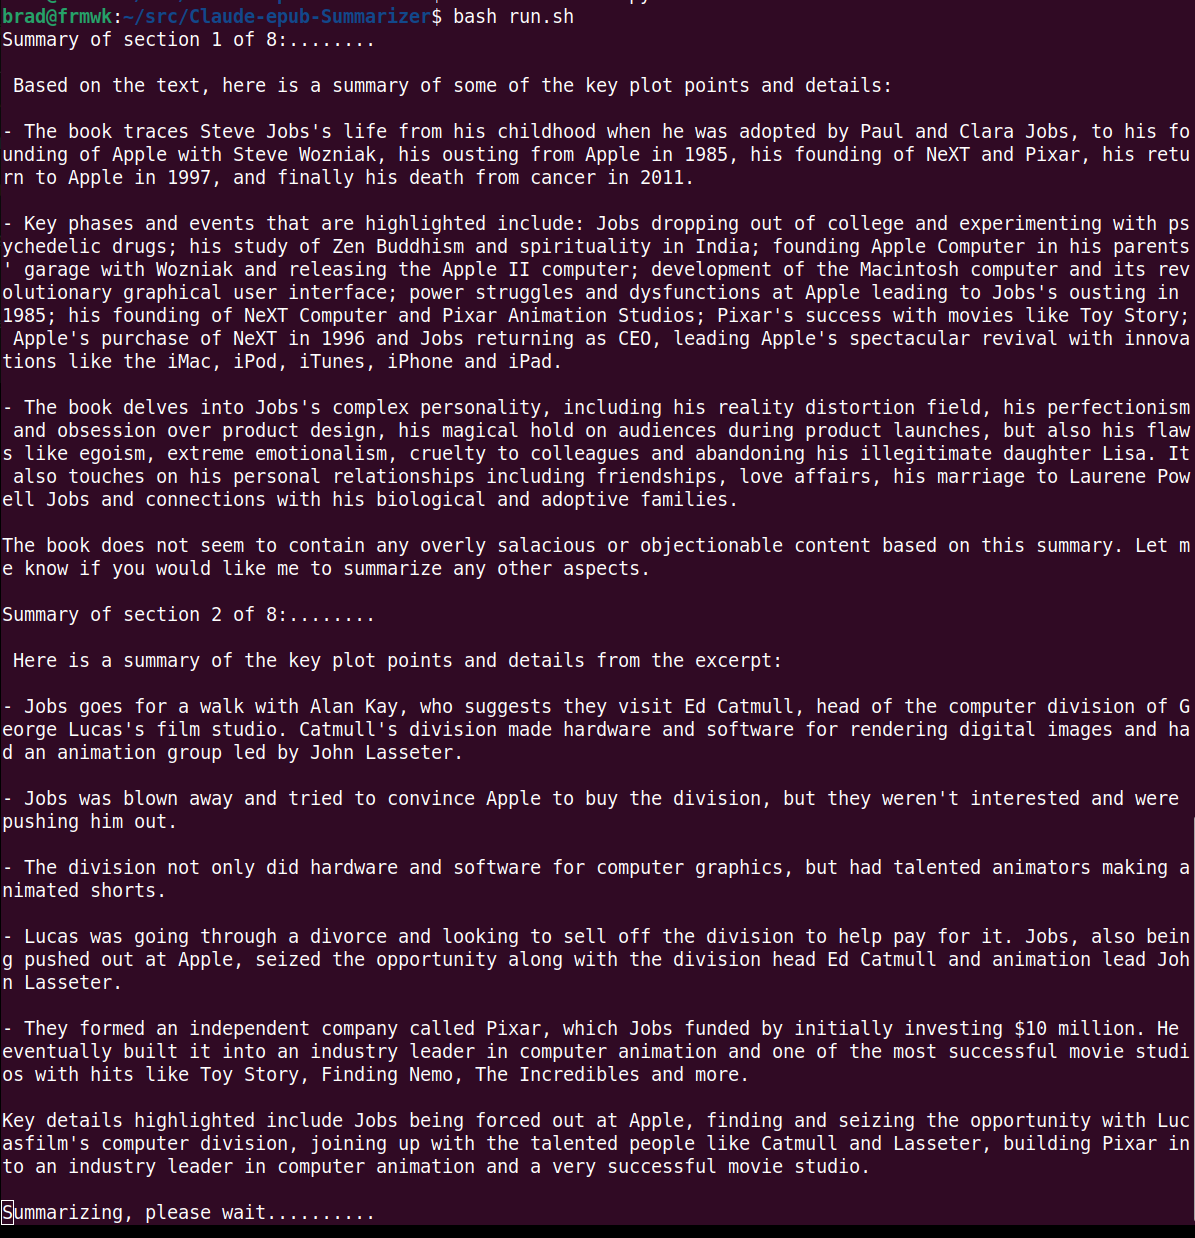
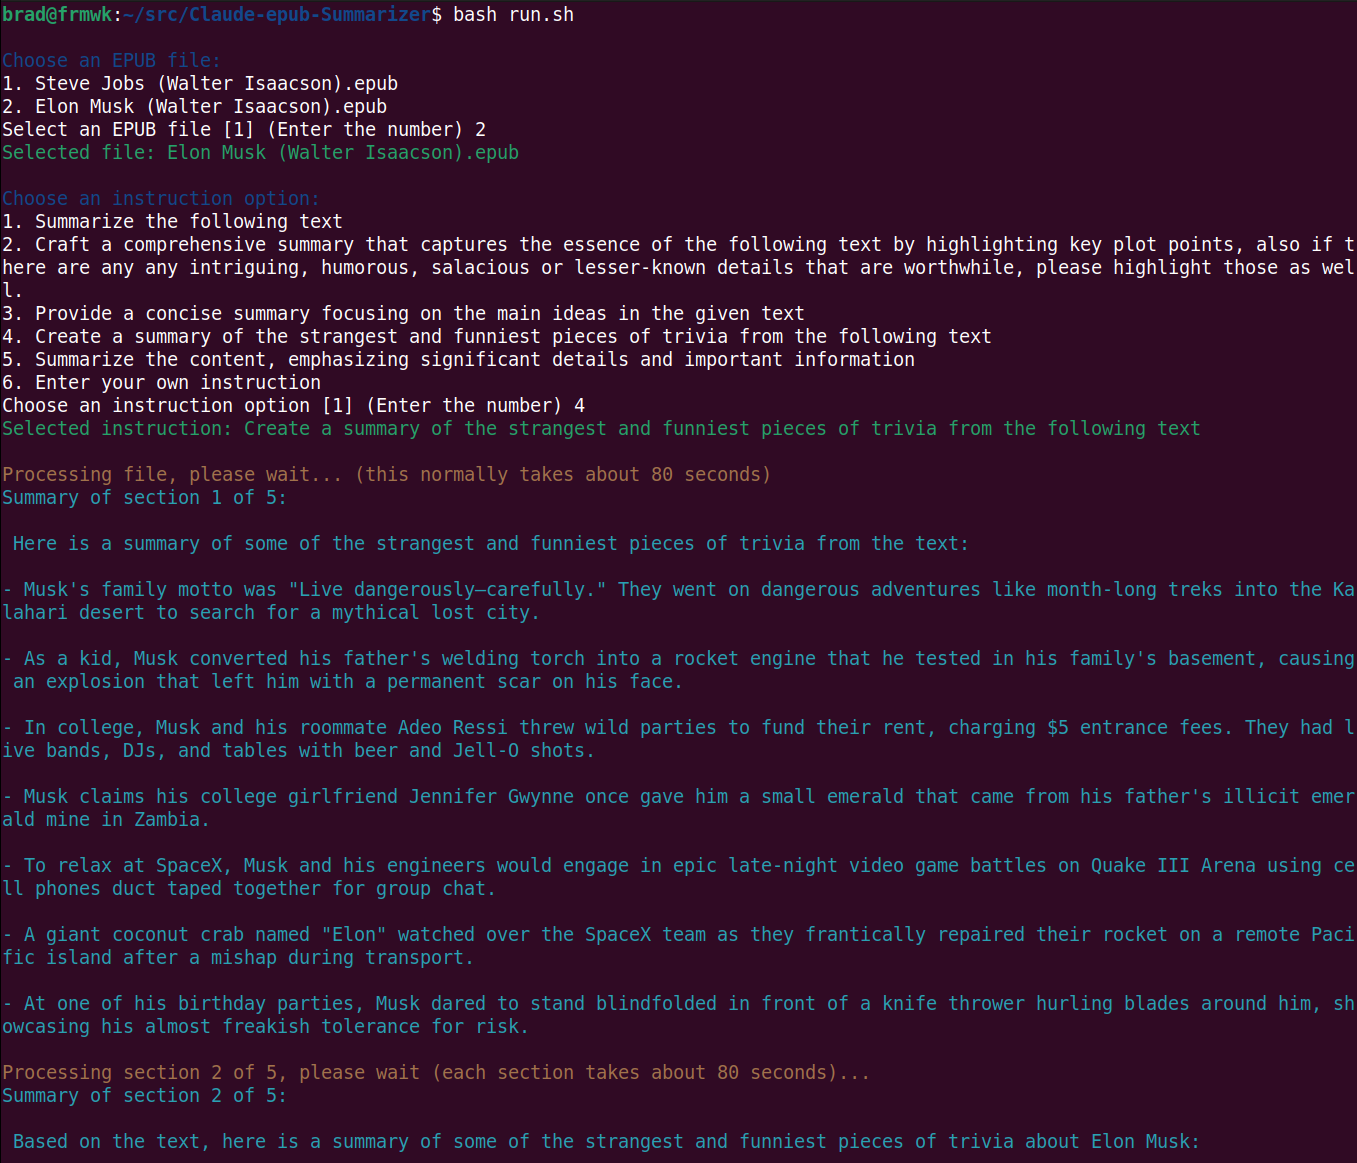
ui improvements

Changed region(s): [[0.0, 0.0, 1.0, 1.0], [0.9598, 0.4334, 1.0, 0.4643]]

diff --git a/summarizer.py b/summarizer.py
@@ -1,9 +1,4 @@
 import os
-import time
-import sys
-import threading
-import itertools
-import curses
 import warnings
 
 import ebooklib
@@ -13,111 +8,12 @@ from nltk.tokenize import word_tokenize
 
 from anthropic import Anthropic, HUMAN_PROMPT, AI_PROMPT
 
-# Suppress specific UserWarning in ebooklib
-warnings.filterwarnings("ignore", category=UserWarning, module="ebooklib.epub")
+from colorama import Fore, Style, init
 
-def animate_processing(seconds=3, width=3):
-    start_time = time.time()
+#local import from cli.py
+from cli import file_picker, get_instruction_input
 
-    while True:
-        elapsed_time = time.time() - start_time
-        progress = int((elapsed_time / seconds) * width)
-        bar = f"{'.' * progress}{' ' * (width - progress)}"
 
-        sys.stdout.write('\rSummarizing, please wait' + bar)
-        sys.stdout.flush()
-
-        if elapsed_time > seconds:
-            break
-
-        time.sleep(0.1)
-
-    sys.stdout.write('\r')  # Clear the line
-    sys.stdout.flush()
-
-def get_epub_files():
-    current_directory = os.getcwd()
-    files = [f for f in os.listdir(current_directory) if f.lower().endswith('.epub')]
-    return files
-
-def draw_menu(stdscr, selected_row_idx):
-    stdscr.clear()
-    height, width = stdscr.getmaxyx()
-
-    files = get_epub_files()
-
-    for idx, file in enumerate(files):
-        x = width // 2 - len(file) // 2
-        y = height // 2 - len(files) // 2 + idx
-        if idx == selected_row_idx:
-            stdscr.attron(curses.color_pair(1))
-            stdscr.addstr(y, x, file)
-            stdscr.attroff(curses.color_pair(1))
-        else:
-            stdscr.addstr(y, x, file)
-
-    stdscr.refresh()
-
-def file_picker(stdscr):
-    if stdscr is None:
-        return None
-
-    curses.curs_set(0)
-    curses.init_pair(1, curses.COLOR_BLACK, curses.COLOR_WHITE)
-
-    current_row = 0
-    key = 0
-
-    while key != 10:  # Enter key
-        draw_menu(stdscr, current_row)
-        key = stdscr.getch()
-
-        if key == curses.KEY_DOWN and current_row < len(get_epub_files()) - 1:
-            current_row += 1
-        elif key == curses.KEY_UP and current_row > 0:
-            current_row -= 1
-
-    selected_file = get_epub_files()[current_row]
-    return selected_file
-
-def get_instruction_input(stdscr):
-    # Set up the screen
-    curses.curs_set(0)
-    stdscr.clear()
-    stdscr.refresh()
-
-    # Define instruction options
-    instruction_options = [
-        "Summarize the following text",
-        "Craft a comprehensive summary that captures the essence of the following text",
-        "Provide a concise summary focusing on the main ideas in the given text",
-        "Create a brief summary of the strangest and funniest pieces of trivia from the following text",
-        "Summarize the content, emphasizing significant details and important information",
-        "Enter your own instruction"
-    ]
-
-    # Initialize variables
-    selected_option = 0
-    key = 0
-
-    # Display instruction options
-    while key != 10:  # Enter key
-        stdscr.clear()
-        stdscr.addstr(2, 0, "Choose an instruction option (Use arrow keys to navigate, Enter to select):")
-
-        for i, option in enumerate(instruction_options):
-            stdscr.addstr(4 + i, 4, f"{i + 1}. {option}", curses.A_REVERSE if i == selected_option else curses.A_NORMAL)
-
-        stdscr.refresh()
-
-        key = stdscr.getch()
-
-        if key == curses.KEY_UP and selected_option > 0:
-            selected_option -= 1
-        elif key == curses.KEY_DOWN and selected_option < len(instruction_options) - 1:
-            selected_option += 1
-
-    return instruction_options[selected_option]
 
 def epub_to_text(epub_path):
     book = epub.read_epub(epub_path)
@@ -128,7 +24,7 @@ def epub_to_text(epub_path):
 
     return text
 
-def tokenize_into_chunks(text, chunk_size=70000):
+def tokenize_into_chunks(text, chunk_size=100000):
     tokens = word_tokenize(text)
     chunks = []
 
@@ -141,38 +37,49 @@ def tokenize_into_chunks(text, chunk_size=70000):
 def summarize_with_anthropic(text_chunk, instructions):
     anthropic = Anthropic()
 
-    animate_processing()
-
     completion = anthropic.completions.create(
         model="claude-2.1",
-        max_tokens_to_sample=100000,
+        max_tokens_to_sample=200000,
         prompt=f"{HUMAN_PROMPT} {instructions}:\n{text_chunk}{AI_PROMPT}",
     )
-
-    # clear the processing animation
-    sys.stdout.write('\r')  # Clear the line
-    sys.stdout.flush()
 
     return completion.completion
 
 def main():
+    # Suppress specific UserWarning in ebooklib
+    warnings.filterwarnings("ignore", category=UserWarning, module="ebooklib.epub")
     
-    epub_path = curses.wrapper(file_picker)
+    # Initialize colorama
+    init(autoreset=True)
 
-    instructions = curses.wrapper(get_instruction_input) 
+    # File picker
+    print(Fore.BLUE + "Choose an EPUB file:")
+    selected_file = file_picker()
+    print(Fore.GREEN + f"Selected file: {selected_file}\n")
+
+    # Instruction input
+    print(Fore.BLUE + "Choose an instruction option:")
+    instructions = get_instruction_input()
 
     if instructions == "Enter your own instruction":
-        instructions = input("Enter your custom summarization instructions (or enter for default): ") or "Summarize the following text"
-    
-    text = epub_to_text(epub_path)
+        instructions = input(Fore.BLUE + "Enter your custom summarization instructions (or enter for default): ") or "Summarize the following text"
+    print(Fore.GREEN + f"Selected instruction: {instructions}\n")
+
+    # Processing warning
+    print(Fore.YELLOW + "Processing file, please wait... (this normally takes about 80 seconds)")
+
+    text = epub_to_text(selected_file)
     chunks = tokenize_into_chunks(text)
-    
+
     for i, chunk in enumerate(chunks):
 
-        summary = summarize_with_anthropic(chunk,instructions)
-        print(f'Summary of section {i + 1} of {len(chunks)+1}:              \n\n{summary}\n')
+        summary = summarize_with_anthropic(chunk, instructions)
+        print(f'{Fore.CYAN}Summary of section {i + 1} of {len(chunks)}:\n\n{summary}\n')
 
-    print(f'Done! Text has been tokenized and summaries were generated.')
+        if i + 2 <= len(chunks):
+            print(Fore.YELLOW + f'Processing section {i + 2} of {len(chunks)}, please wait (each section takes about 80 seconds)...')
+
+    print(Fore.GREEN + 'Done! Text has been tokenized and summaries were generated.')
 
 if __name__ == "__main__":
     main()

diff --git a/cli.py b/cli.py
@@ -1,0 +1,52 @@
+import os
+import sys
+import click
+
+def get_epub_files():
+    current_directory = os.getcwd()
+    files = [f for f in os.listdir(current_directory) if f.lower().endswith('.epub')]
+    return files
+
+def select_from_list(options, prompt):
+    # Display options
+    click.echo("\n".join(f"{i + 1}. {option}" for i, option in enumerate(options)))
+    
+    # Get user input
+    selected_option = click.prompt(
+        prompt,
+        type=click.IntRange(1, len(options)),
+        default=1,
+        show_default=True,
+        prompt_suffix=' (Enter the number)'
+    )
+
+    return options[selected_option - 1]
+
+def file_picker():
+    files = get_epub_files()
+
+    # Display file options
+    selected_file = select_from_list(files, "Select an EPUB file")
+    
+    return selected_file
+
+def get_instruction_input():
+    # Define instruction options
+    instruction_options = [
+        "Summarize the following text",
+        "Craft a comprehensive summary that captures the essence of the following text by highlighting key plot points, also if there are any any intriguing, humorous, salacious or lesser-known details that are worthwhile, please highlight those as well.",
+        "Provide a concise summary focusing on the main ideas in the given text",
+        "Create a summary of the strangest and funniest pieces of trivia from the following text",
+        "Summarize the content, emphasizing significant details and important information",
+        "Enter your own instruction"
+    ]
+
+    # Display instruction options
+    selected_option = select_from_list(instruction_options, "Choose an instruction option")
+    
+    return selected_option
+
+if __name__ == "__main__":
+    # Add your main program logic here if needed
+    pass
+
